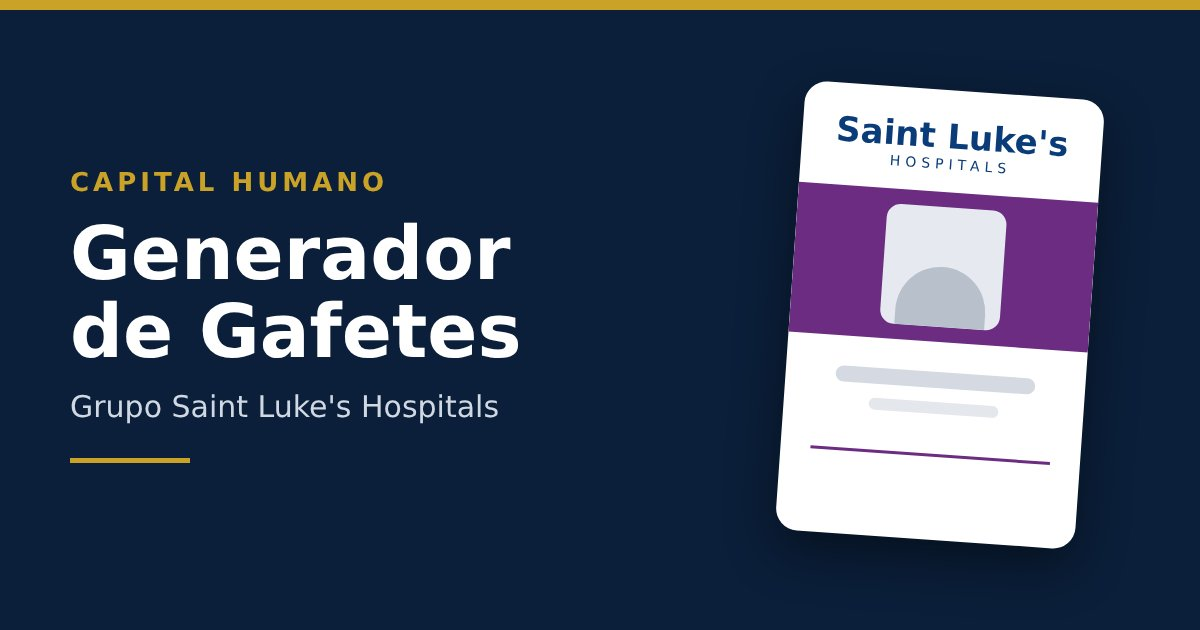
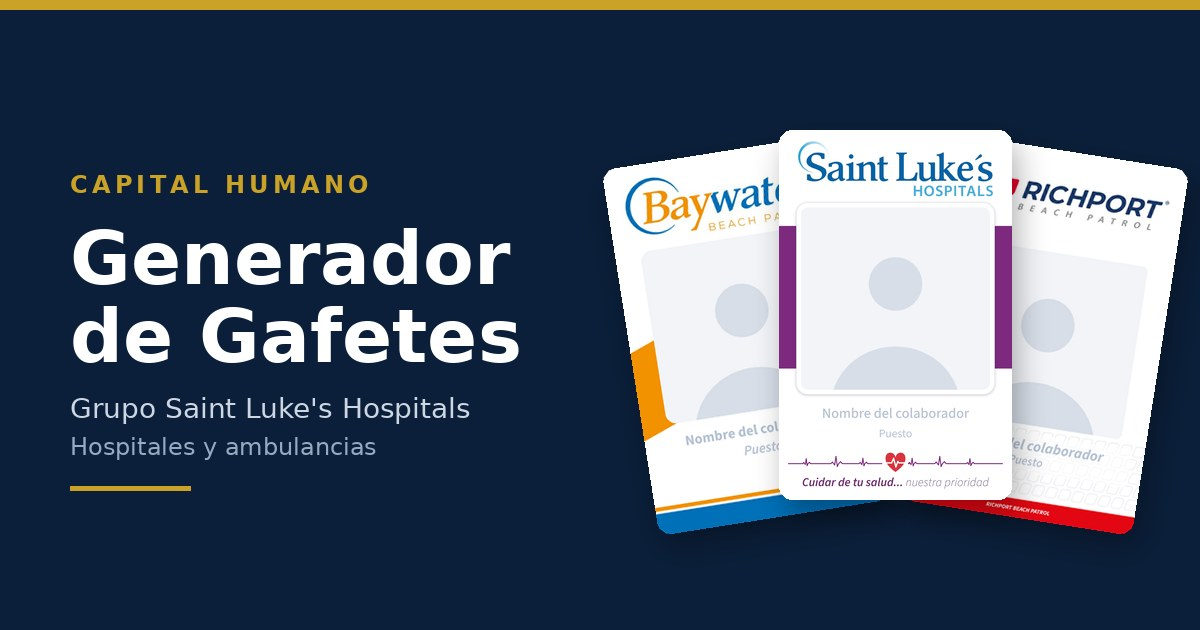
Gafetes: vista previa con diseños de ambulancias (Baywatch y Richport)
Actualiza la imagen y descripción de la tarjeta de WhatsApp y la URL de redirección del generador.

Claude-Session: https://claude.ai/code/session_01DFYdjbDdxmTDZhVW912LmT

diff --git a/gafetes/index.html b/gafetes/index.html
@@ -4,15 +4,15 @@
   <meta charset="UTF-8">
   <meta name="viewport" content="width=device-width, initial-scale=1">
   <title>Generador de Gafetes · Saint Luke's Hospitals</title>
-  <meta name="description" content="Genera e imprime los gafetes de colaboradores de Grupo Saint Luke's Hospitals.">
+  <meta name="description" content="Genera e imprime los gafetes de colaboradores de Grupo Saint Luke's: hospitales y ambulancias (Baywatch y Richport).">
   <meta name="robots" content="noindex">
 
   <!-- Vista previa para WhatsApp / redes -->
   <meta property="og:type" content="website">
   <meta property="og:site_name" content="Capital Humano · Saint Luke's">
   <meta property="og:title" content="Generador de Gafetes · Saint Luke's Hospitals">
-  <meta property="og:description" content="Genera e imprime los gafetes de colaboradores de Grupo Saint Luke's Hospitals.">
-  <meta property="og:image" content="https://rhinobuild.github.io/gafetes/preview.jpg">
+  <meta property="og:description" content="Genera e imprime los gafetes de colaboradores de Grupo Saint Luke's: hospitales y ambulancias (Baywatch y Richport).">
+  <meta property="og:image" content="https://rhinobuild.github.io/gafetes/preview.jpg?v=3">
   <meta property="og:image:type" content="image/jpeg">
   <meta property="og:image:width" content="1200">
   <meta property="og:image:height" content="630">
@@ -26,11 +26,11 @@
   </style>
   <script>
     // Redirección inmediata (WhatsApp no ejecuta JS, así que lee las etiquetas de arriba)
-    location.replace("https://script.google.com/a/macros/rhinobuild.org/s/AKfycbxr3CJ6lSstCKG8jBLBDhHzOj7_NXzxW6a-eDveEa9KNKnSiEsF0JLDmFrxKdz-0E65nQ/exec");
+    location.replace("https://script.google.com/macros/s/AKfycbxr3CJ6lSstCKG8jBLBDhHzOj7_NXzxW6a-eDveEa9KNKnSiEsF0JLDmFrxKdz-0E65nQ/exec");
   </script>
 </head>
 <body>
   <p>Abriendo el Generador de Gafetes…<br><br>
-  <a href="https://script.google.com/a/macros/rhinobuild.org/s/AKfycbxr3CJ6lSstCKG8jBLBDhHzOj7_NXzxW6a-eDveEa9KNKnSiEsF0JLDmFrxKdz-0E65nQ/exec">Toca aquí si no se abre</a></p>
+  <a href="https://script.google.com/macros/s/AKfycbxr3CJ6lSstCKG8jBLBDhHzOj7_NXzxW6a-eDveEa9KNKnSiEsF0JLDmFrxKdz-0E65nQ/exec">Toca aquí si no se abre</a></p>
 </body>
 </html>
